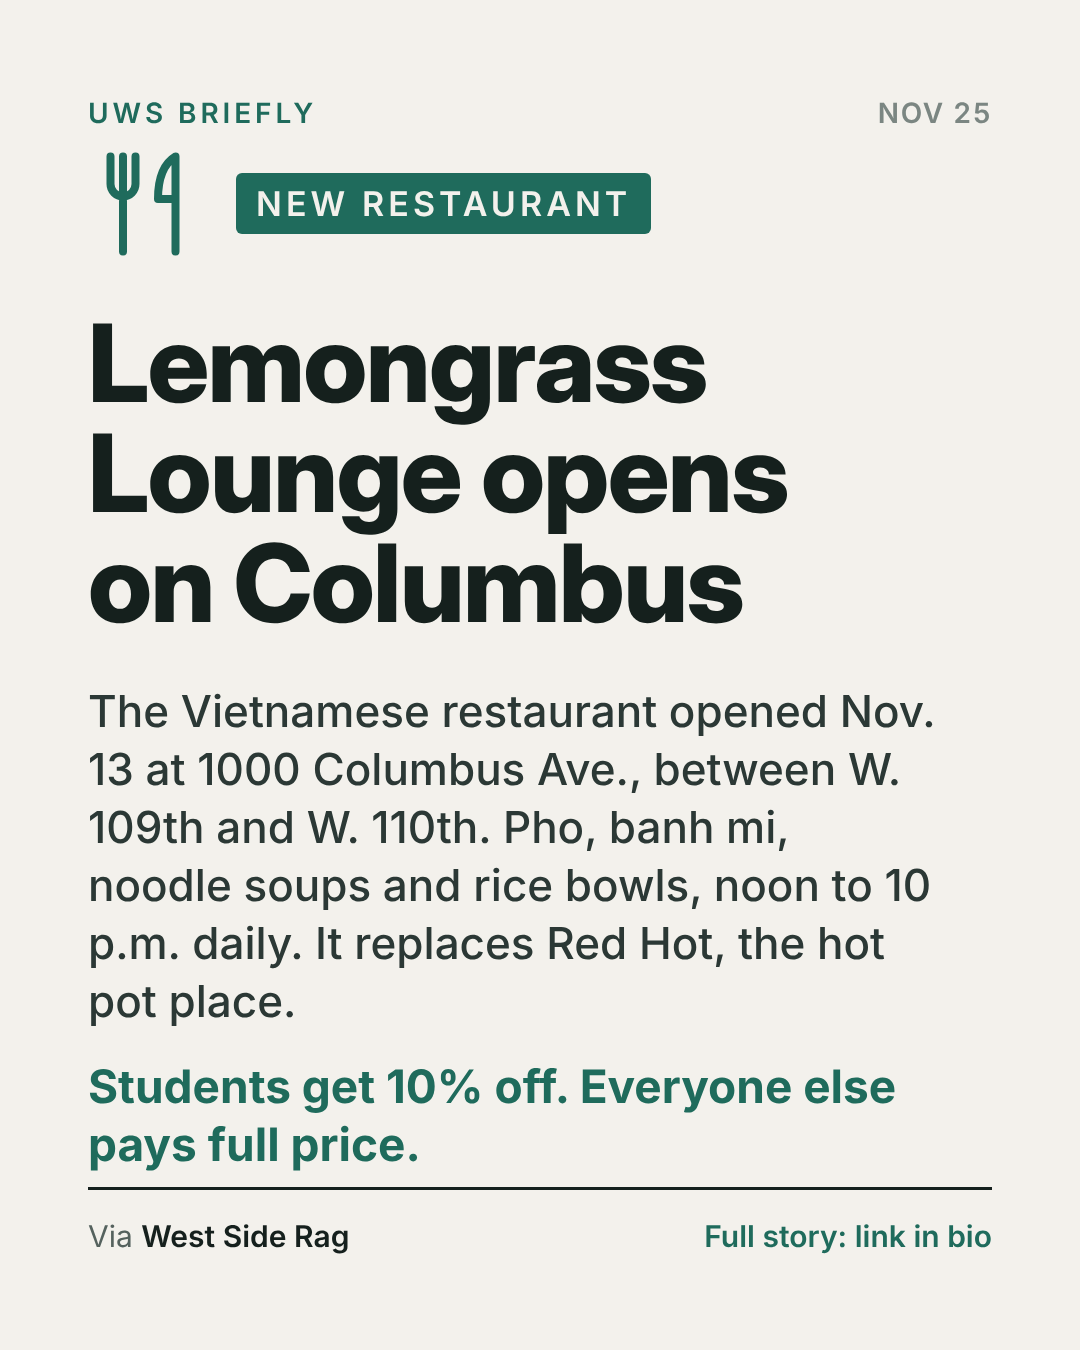
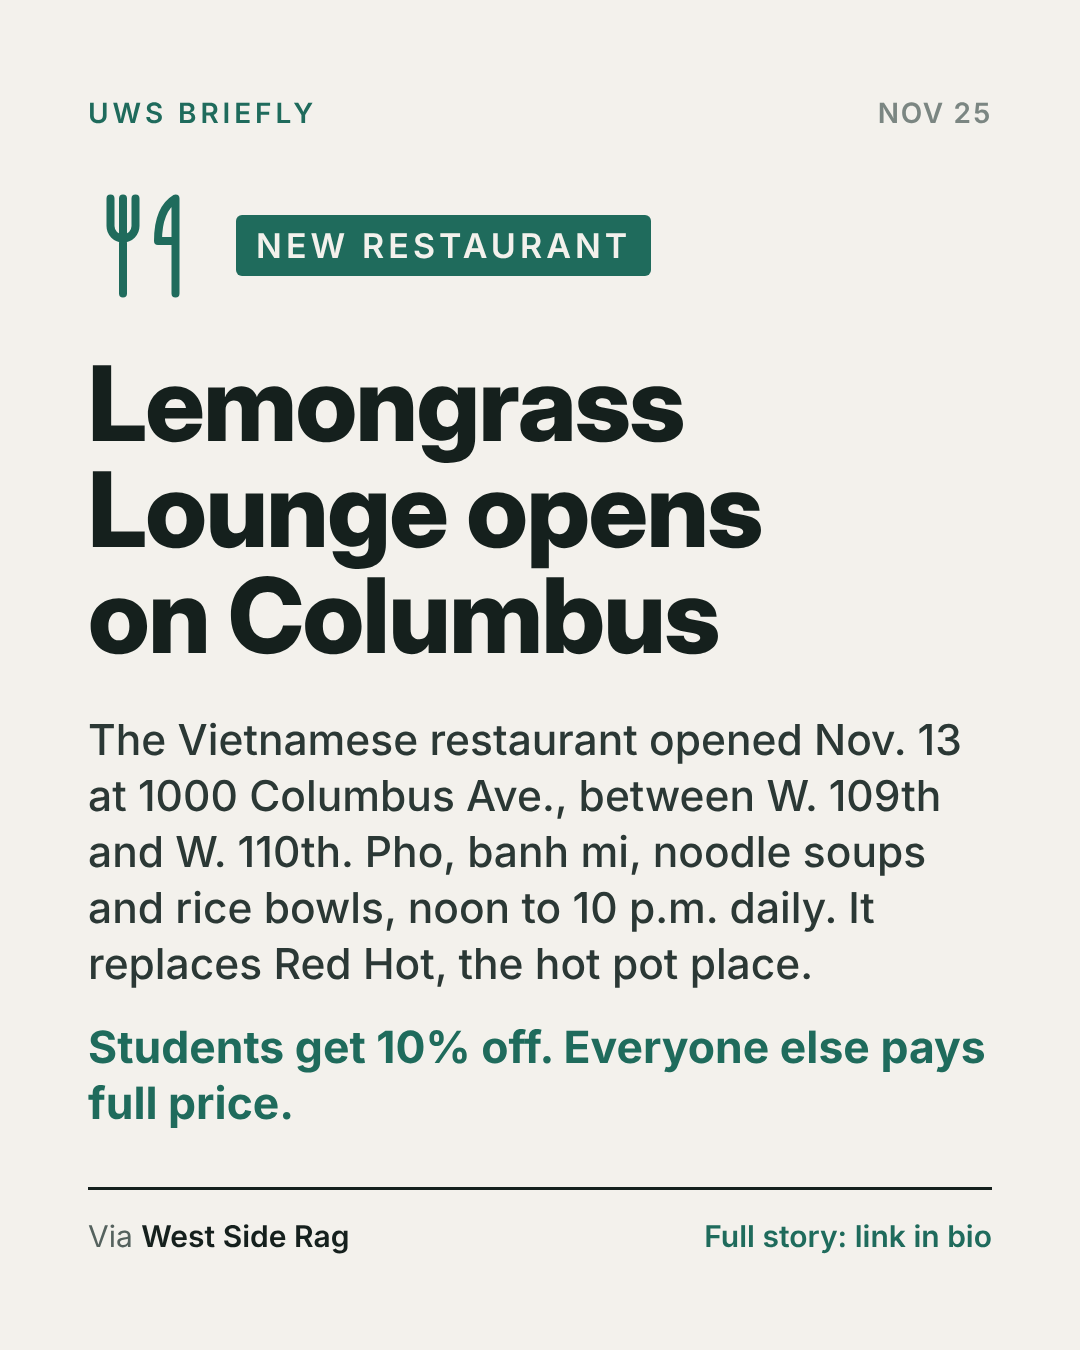
Cards shrink text to fit; re-render Nov 25 restaurant cards
Claude-Session: https://claude.ai/code/session_012hoGa7znvUsmkGfQAmLETD

Changed region(s): [[0.0611, 0.0933, 0.9167, 0.8711], [0.2139, 0.1244, 0.6111, 0.2178], [0.1528, 0.1867, 0.1833, 0.2178]]

diff --git a/tools/card.js b/tools/card.js
@@ -53,6 +53,20 @@ body { font-family: "Inter", sans-serif; background: #f3f1ec; color: #15201d;
   const b = await chromium.launch();
   const p = await b.newPage({ viewport: { width: 1080, height: 1350 }, deviceScaleFactor: 1 });
   await p.setContent(html, { waitUntil: 'load' });
+  // Shrink the headline and details a step at a time until everything fits with room above the rule.
+  await p.evaluate(() => {
+    const mid = document.body.children[1], foot = document.querySelector('.foot');
+    const top = document.querySelector('.top');
+    const fits = () => mid.getBoundingClientRect().bottom <= foot.getBoundingClientRect().top - 40
+      && mid.getBoundingClientRect().top >= top.getBoundingClientRect().bottom + 40;
+    const px = el => parseFloat(getComputedStyle(el).fontSize);
+    const head = document.querySelector('.text'), body = document.querySelector('.body'), aside = document.querySelector('.aside');
+    for (let i = 0; i < 12 && !fits(); i++) {
+      head.style.fontSize = px(head) - 4 + 'px';
+      body.style.fontSize = px(body) - 1.5 + 'px';
+      if (aside) aside.style.fontSize = px(aside) - 1.5 + 'px';
+    }
+  });
   await p.screenshot({ path: out });
   await b.close();
   console.log(out);
